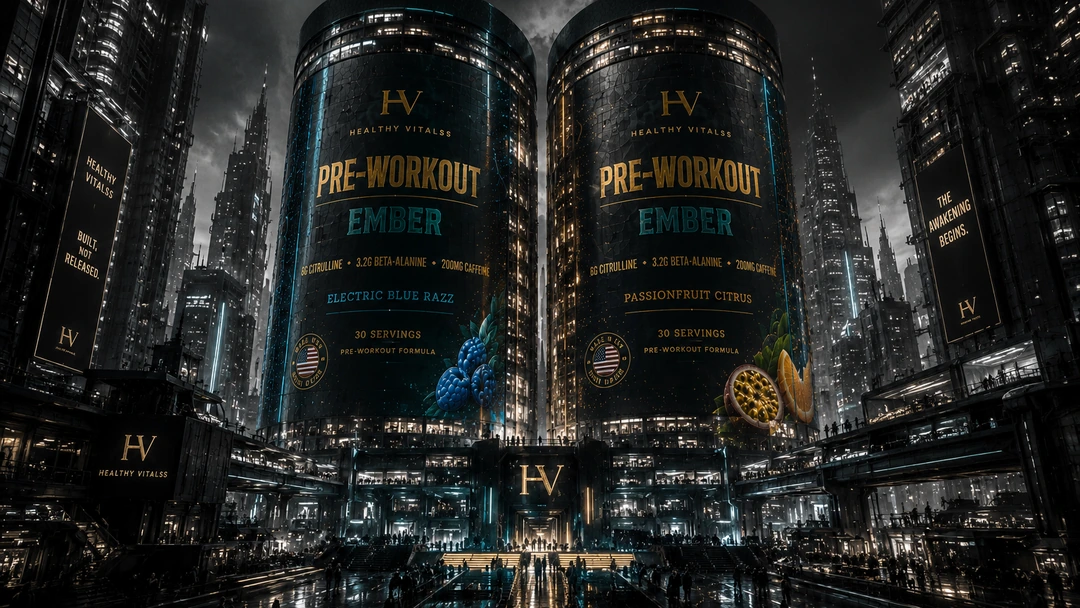
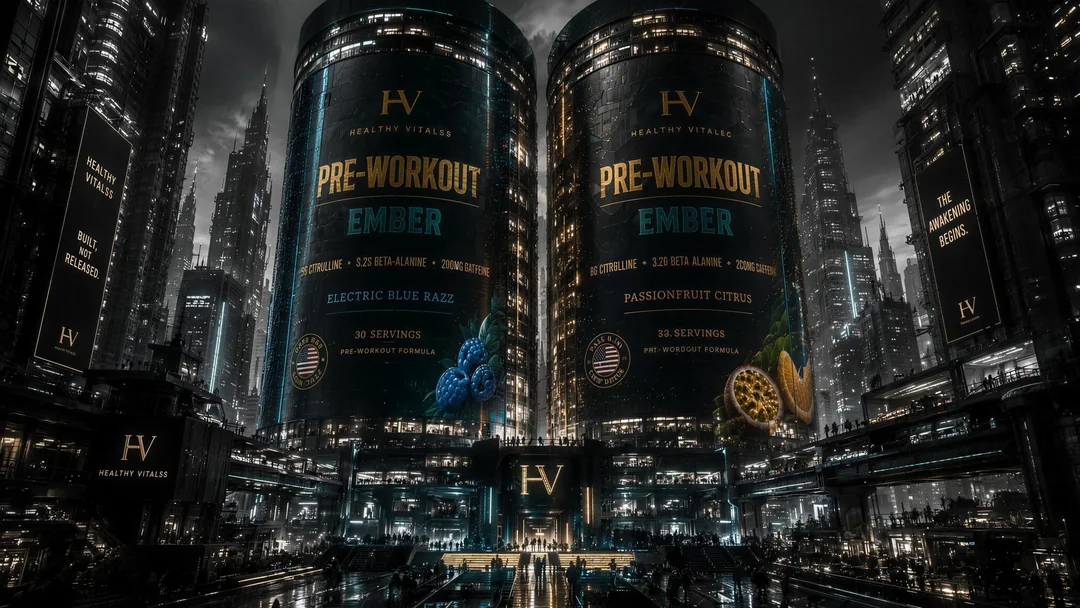
Install 4K upscaled plates

diff --git a/ember-site/index.html b/ember-site/index.html
@@ -744,7 +744,7 @@ footer .dot{width:3px;height:3px;border-radius:50%;background:rgba(200,148,58,.5
       <!-- full-bleed landscape frame: the flavour macros are portrait crops now,
            so the first look uses the dual splash your asset map assigns here -->
       <img id="a3img" src="assets/dual-sunset.webp"
-        srcset="assets/dual-sunset-480.webp 480w, assets/dual-sunset-768.webp 768w, assets/dual-sunset-1080.webp 1080w, assets/dual-sunset.webp 1536w"
+        srcset="assets/dual-sunset-480.webp 480w, assets/dual-sunset-768.webp 768w, assets/dual-sunset-1080.webp 1080w, assets/dual-sunset.webp 3024w"
         sizes="100vw"
         alt="EMBER pre-workout, first look" loading="lazy" decoding="async">
       <div class="a3-shaft" id="a3shaft" aria-hidden="true"></div>
@@ -809,7 +809,7 @@ footer .dot{width:3px;height:3px;border-radius:50%;background:rgba(200,148,58,.5
   </div>
   <div class="a5-stage">
     <img id="a5img" src="assets/ember-hero.webp"
-      srcset="assets/ember-hero-480.webp 480w, assets/ember-hero-768.webp 768w, assets/ember-hero-1080.webp 1080w, assets/ember-hero.webp 1586w"
+      srcset="assets/ember-hero-480.webp 480w, assets/ember-hero-768.webp 768w, assets/ember-hero-1080.webp 1080w, assets/ember-hero.webp 2904w"
       sizes="(max-width:620px) 100vw, min(1500px, 96vw)"
       alt="EMBER Pre-Workout, both flavours" loading="lazy" decoding="async">
     <canvas id="powder" aria-hidden="true"></canvas>
@@ -889,7 +889,7 @@ footer .dot{width:3px;height:3px;border-radius:50%;background:rgba(200,148,58,.5
 <section id="act7" aria-label="The EMBER Reserve">
   <div class="a7-bed" aria-hidden="true">
     <img src="assets/ember-hero.webp"
-      srcset="assets/ember-hero-480.webp 480w, assets/ember-hero-768.webp 768w, assets/ember-hero-1080.webp 1080w, assets/ember-hero.webp 1586w"
+      srcset="assets/ember-hero-480.webp 480w, assets/ember-hero-768.webp 768w, assets/ember-hero-1080.webp 1080w, assets/ember-hero.webp 2904w"
       sizes="100vw"
       alt="" loading="lazy" decoding="async">
   </div>
@@ -1378,7 +1378,7 @@ function mountOptional(el, name, sizes){
   const img = el.tagName === 'IMG' ? el : el.querySelector('img');
   if (!img) return;
   img.srcset = `assets/${name}-480.webp 480w, assets/${name}-768.webp 768w, ` +
-               `assets/${name}-1080.webp 1080w, assets/${name}.webp 1920w`;
+               `assets/${name}-1080.webp 1080w, assets/${name}.webp 3024w`;
   img.sizes = sizes;
   img.src = `assets/${name}.webp`;
   const host = el.tagName === 'IMG' ? el.closest('section') : el;
